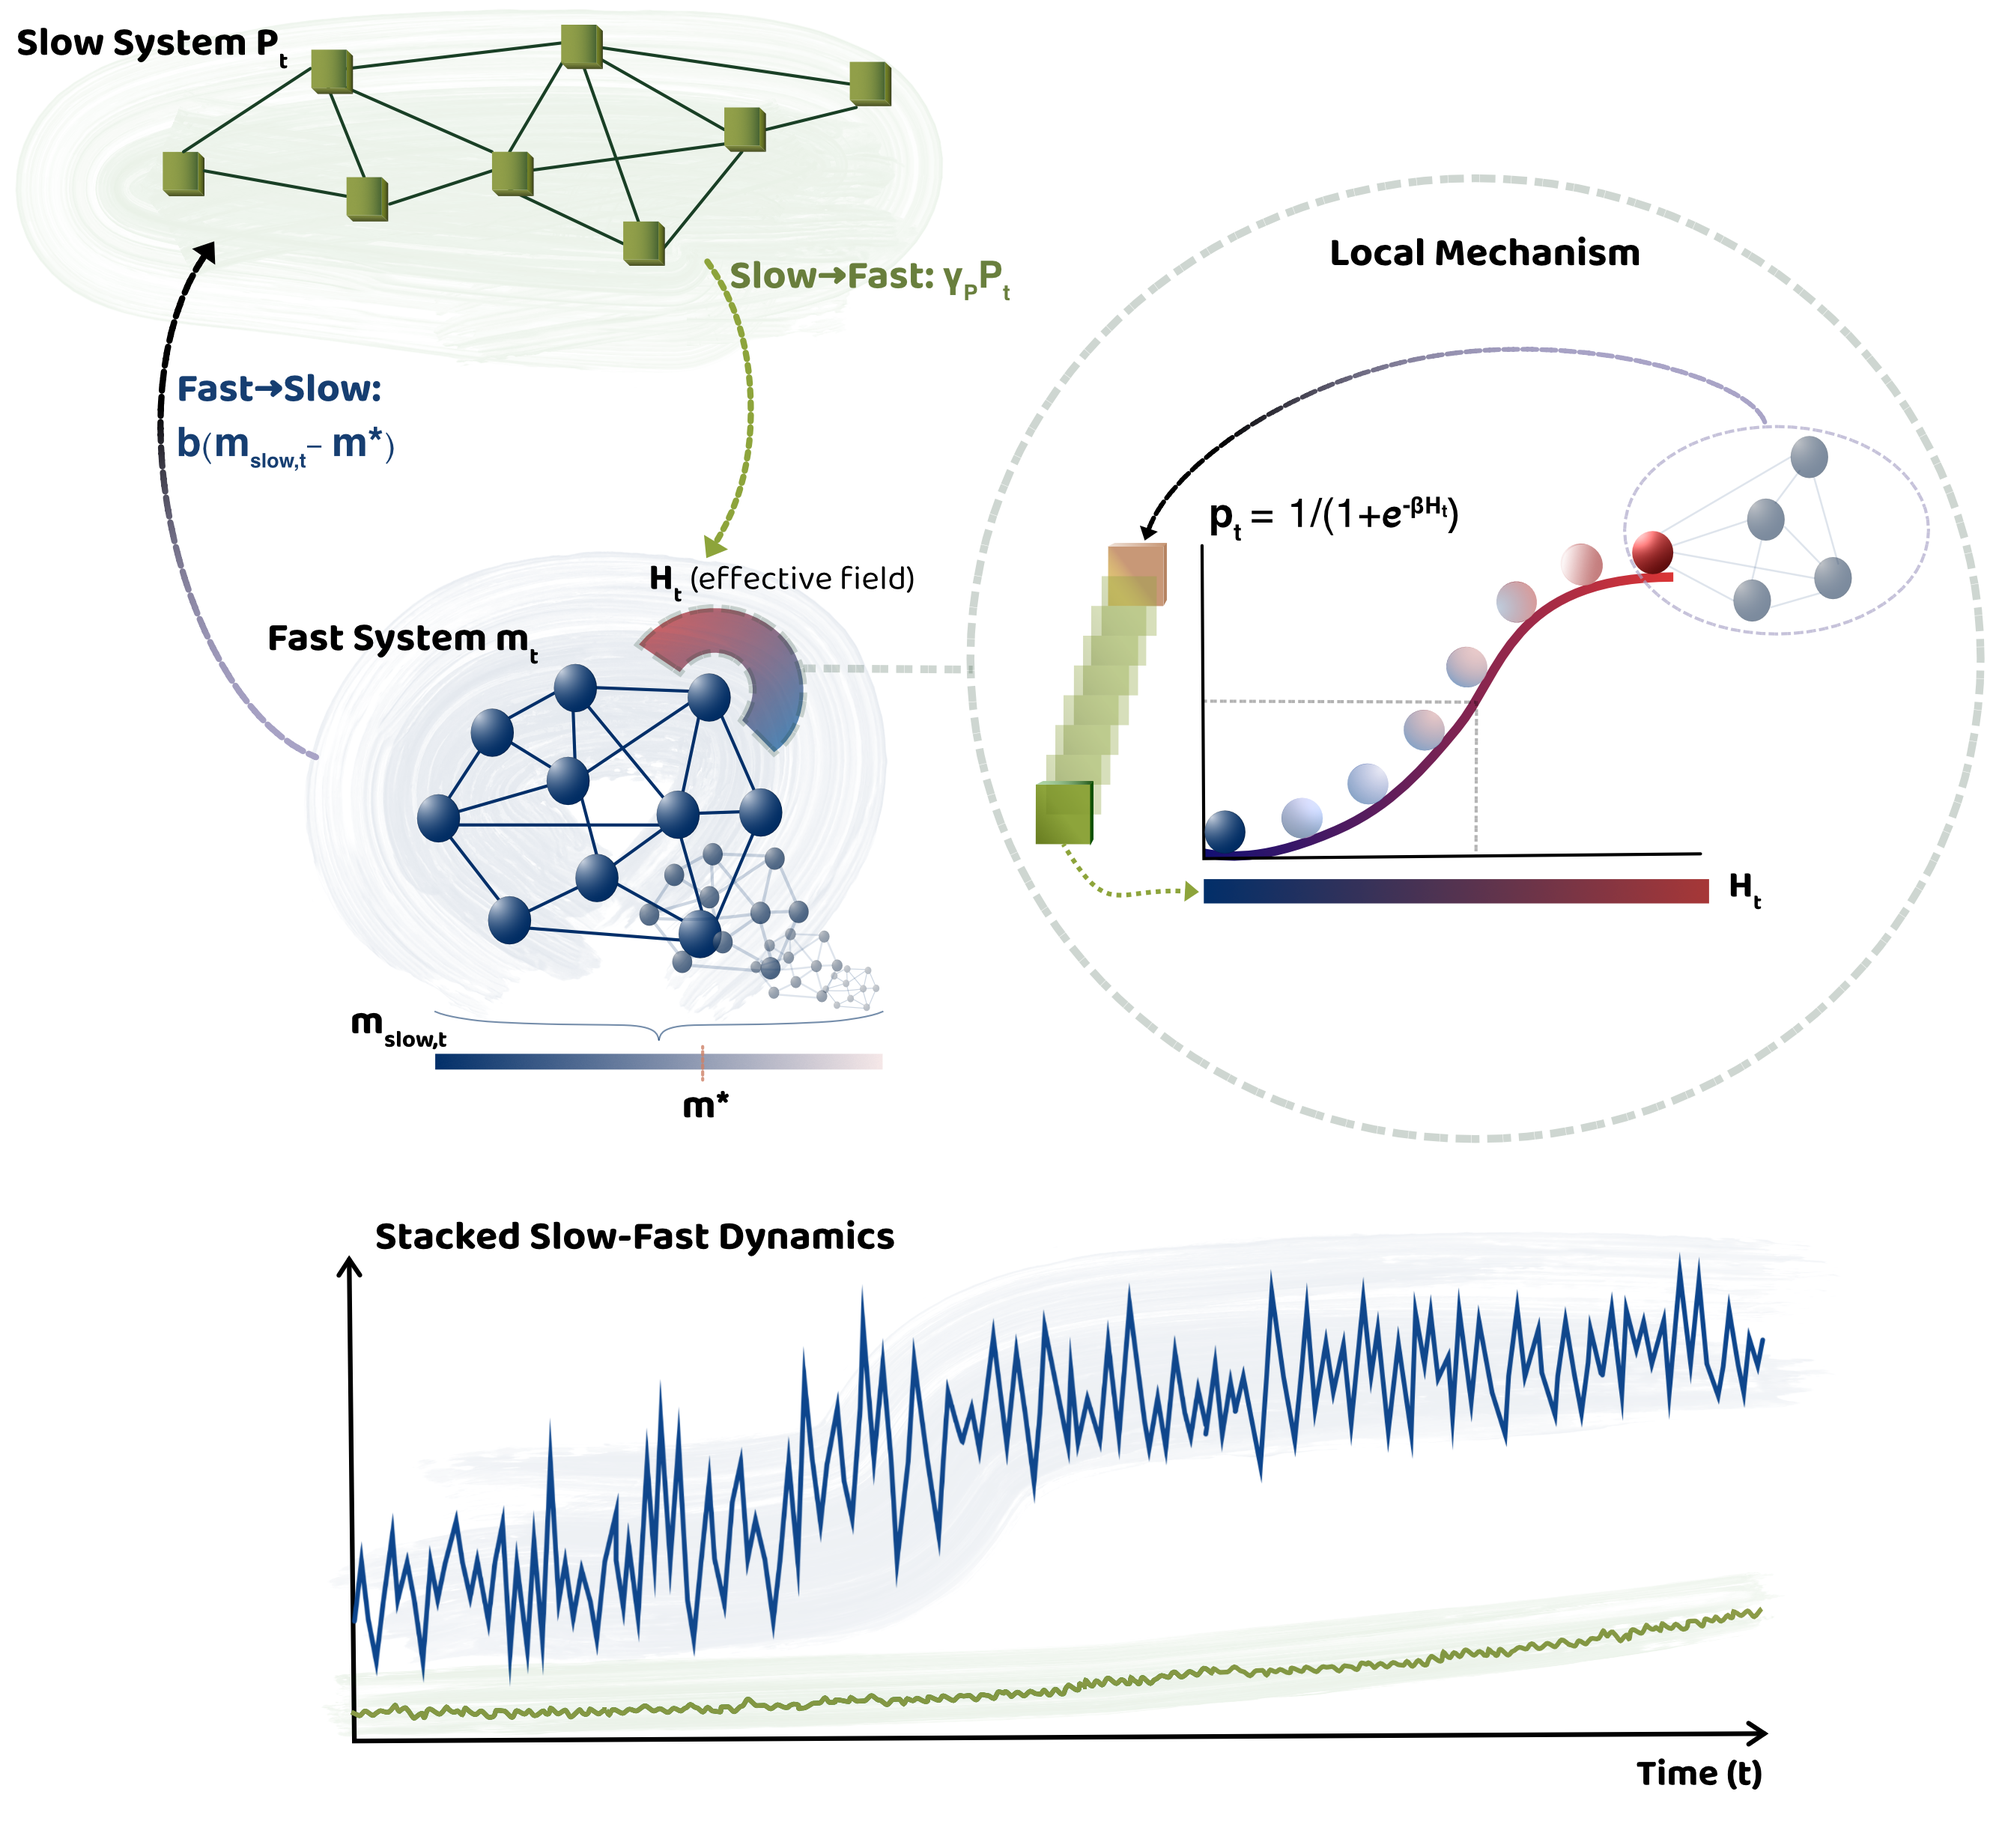
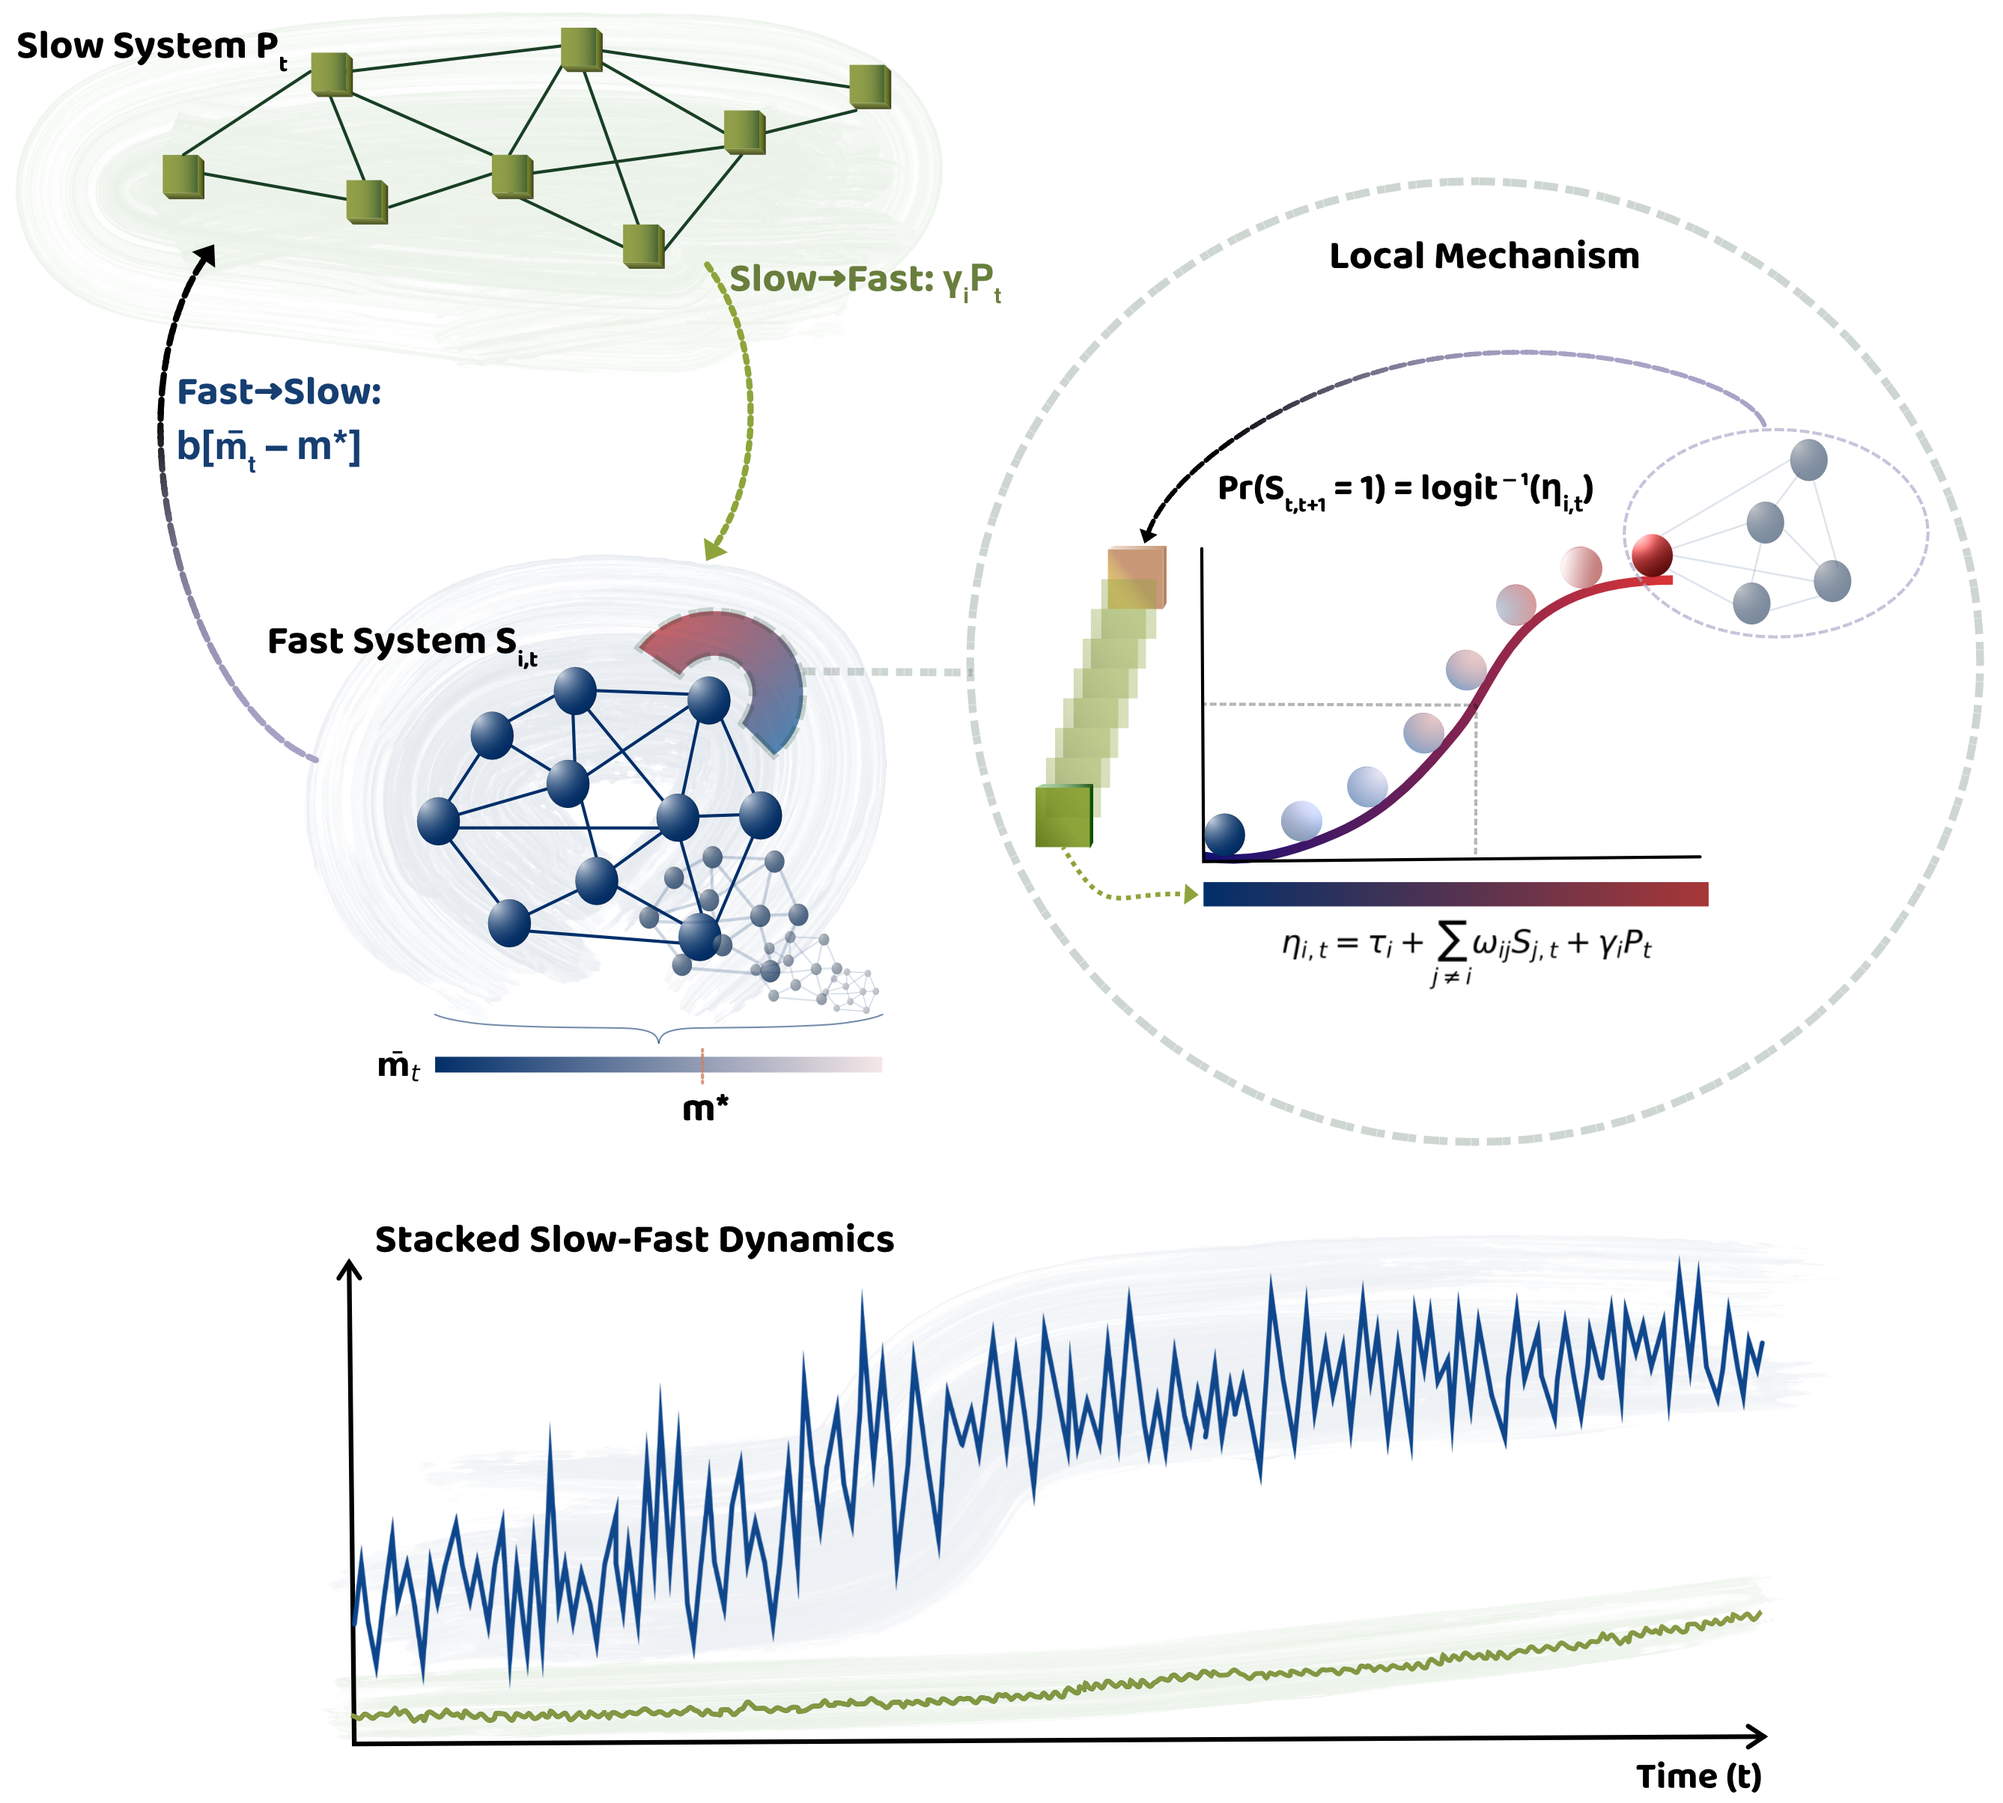
update  readme

diff --git a/README.md b/README.md
@@ -1,5 +1,9 @@
 # Slow–Fast Coupling: A Heterogeneous-Threshold Symptom Network Under Context Dynamics
 
+<p align="center">
+  <img src="figs/slow-fast-model-illustration_v2.png" width="650" alt="Slow-fast model schematic: a fast binary symptom network S_i,t coupled to a slower context process P_t, with feedback from the network back to context">
+</p>
+
 This repository contains the simulation code, cached results, and figure-generation scripts for
 a slow–fast computational model in which a fast binary symptom network (heterogeneous thresholds
 `tau_i`, symptom–symptom coupling `omega_ij`, context sensitivity `gamma_i`) is coupled to a
@@ -32,6 +36,8 @@ slow-fast-computational-model/
 │   │   ├── 00_parameters_uncentered01.R             tau_i, omega_ij, gamma_i for all 9 symptoms
 │   │   ├── 01_sim_context_baseline.R                Simulation 1: context shifts symptom activation
 │   │   ├── 02_sim_stress_recovery.R                 Simulation 2: P_t dynamics + single shock, feedback off
+│   │   ├── 02b_sim_stress_recovery_coupling_sensitivity.R  Appendix: does coupling strength change recovery?
+│   │   ├── 02c_sim2_coupling_sensitivity_figure.R   Re-plots 02b's output as the final appendix figure
 │   │   ├── 03_sim_feedback.R                        Simulation 3 (main text): feedback on vs. off
 │   │   ├── 03b_sim_feedback_grid_supplement.R        Supplement: b calibration grid
 │   │   ├── 03c_sim_feedback_shock_grid_extended.R    Extends Sim 2/3 shock design across the b grid
@@ -81,6 +87,10 @@ and writes to `figs/revision_2026/`.
   (Figure 2).
 * `02_sim_stress_recovery.R` — **Simulation 2**: adds the full `P_t` OU process (mean reversion +
   diffusion) plus a single acute shock, feedback off (`b = 0`).
+* `02b_sim_stress_recovery_coupling_sensitivity.R` / `02c_sim2_coupling_sensitivity_figure.R` —
+  **Appendix**: checks whether the strength of symptom-symptom coupling changes how fast the
+  system recovers from the Simulation 2 shock; `02c` re-plots `02b`'s cached output as the final,
+  three-condition appendix figure.
 * `03_sim_feedback.R` — **Simulation 3 (main text)**: same shock/recovery design as Simulation 2,
   comparing feedback off vs. on (`b = 0.5`) to isolate the effect of symptom-to-context feedback
   (Figure 3).
@@ -106,9 +116,9 @@ and writes to `figs/revision_2026/`.
 |---|---|
 | `figs/slow-fast-model-illustration_v2.png` | Figure 1 — model schematic |
 | `Figure2_context_baseline.pdf` | Figure 2 — context shifts symptom activation (Simulation 1) |
-| `Figure3_recovery_feedback.pdf` / `Figure3_regimes.pdf` | Figure 3 — stress, recovery, and feedback (Simulations 2–3) |
+| `Figure3_perturbation_recovery.pdf` / `Figure3_regimes.pdf` | Figure 3 — stress, recovery, and feedback (Simulations 2–3); `Figure3_regimes.pdf` also folds in the history-dependence check |
 | `Figure4_network_trio.pdf` + `Figure4_metric_strip.pdf` | Figure 4 — true vs. estimated symptom networks (Simulation 4) |
-| `FigureS_history_dependence.pdf` | Supplement — history-dependence check |
+| `fig_sim2_coupling_sensitivity.pdf` + `fig_sim2_coupling_criticality_check.pdf` | Appendix — sensitivity of recovery to symptom-coupling strength |
 | `Figure_S_window_check_revised.pdf` | Appendix B — observation-window check |
 | `figs/nct_structure_weighted.pdf`, `nct_strength_weighted.pdf`, `nct_edge_fp_weighted.pdf` | Appendix C — supplementary NCT robustness check |
 
